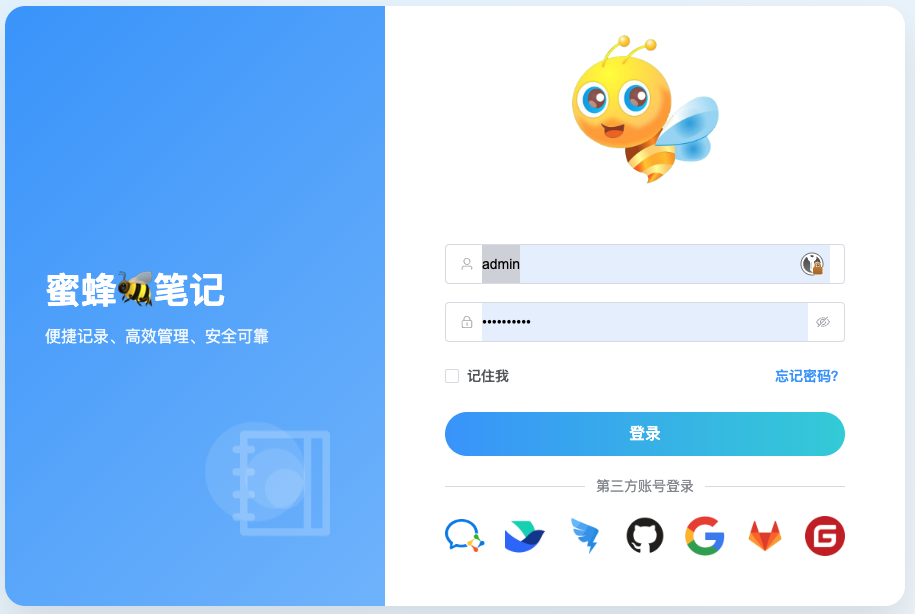
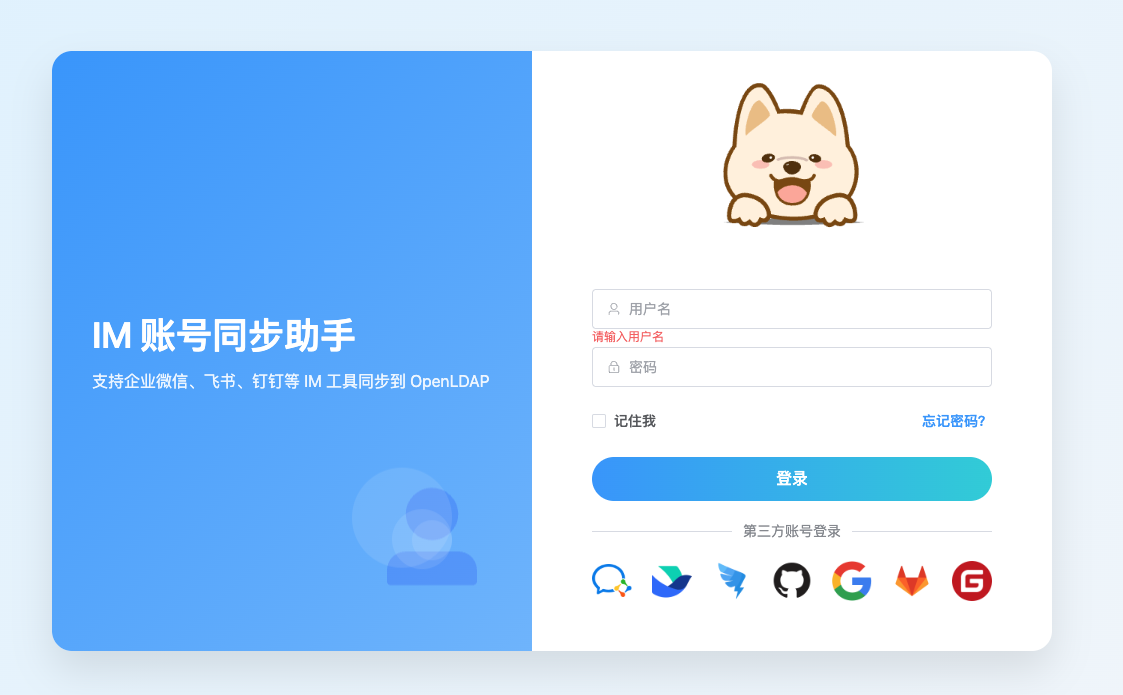
更新

diff --git a/README.md b/README.md
@@ -1,68 +1,23 @@
-# 蜜蜂🐝笔记 beenote
+# IM LDAP 账号同步助手 im2ldap
 
 ## 项目介绍
 
-1. 基于vue3 + django rest framework 的**markdown**笔记软件
-2. 由**cursor**协助开发
-3. 欢迎提意见和需求
+1. 基于vue3 + django rest framework
+2. 由**cursor、trae**协助开发
+3. 当前为测试版本，欢迎提意见和需求
 4. 近期将进行频繁更新，欢迎star、watch
 
 ## 功能定位
 
-1. **个人笔记** 和 **公司内部知识分享**
-2. 用户分为**普通用户**、**管理员用户**、**超级管理员**三种角色
-3. 用户角色可以创建**笔记和笔记分组**
-4. 管理员可以看到全部用户的笔记和笔记分组，并可以为其他用户分配**笔记和笔记分组**权限
-5. 超级管理员可以配置第三方登录
-6. 用户只可以看到管理员授权的**笔记和笔记分组**
+1. 将企业微信、飞书、钉钉等用户账号同步到LDAP
+2. 支持企业微信、飞书、钉钉、
 
 ## demo
 
-<https://beenote.huoxingxiaoliu.com/login?username=admin&password=mifengbiji>  
+<https://im2ldap.huoxingxiaoliu.com/login?username=admin&password=huoxingxiaoliu>  
 用户名：admin  
-密码：mifengbiji  
+密码：huoxingxiaoliu
 
-## Docker快速开始
-
-### 创建docker-compose.yaml文件  
-**生产建议打开数据库持久化**
-
-```yaml
-version: '3'
-
-services:
-  beenote:
-    image: xtlyk/beenote:latest
-    container_name: beenote
-    # pull_policy: never  # 不自动拉取镜像
-    ports:
-      - "80:80"      # 前端端口
-      - "8000:8000"  # 后端端口
-    environment:
-      - TZ=Asia/Shanghai
-      - DEBUG=0
-      - DJANGO_SETTINGS_MODULE=server.settings
-      - SECRET_KEY=G2afcZy1EZwKIqZ61uV3Nhp1RInSTKZYiVXm5IzF
-    # volumes:
-    #   - /data/:/app/data/  # 数据库文件持久化，如开启数据库为初始空状态，需手动创建superuser
-    restart: always
-    healthcheck:
-      test: ["CMD", "curl", "-f", "http://localhost:8000/api/auth/health/?format=json"]
-      interval: 30s
-      timeout: 10s
-      retries: 3
-      start_period: 40s
-```
-
-```shell
-# 创建数据库持久化目录
-# mkdir /data
-docker compose up
-```
-
-## 浏览器打开
-
-<http://localhost>
 
 ## 跟着火星小刘学运维开发
 
@@ -70,28 +25,26 @@ docker compose up
 
 ## qq群
 
-欢迎加入beenote-笔记与知识仓库。
-
 [![QQ群](https://pub.idqqimg.com/wpa/images/group.png)](https://qm.qq.com/cgi-bin/qm/qr?k=a_y5qjuIfBYZHkhGg4JTZqGjTk3KUI5T&jump_from=webapi&authKey=qJpb8UQWFJcxKBdT/zq9kGBqiMxOm9k3TkfYeAtaVtHAbKbIfxMiGBolmP+aWa5b)
 
-[![QQ群二维码](https://github.com/X-Mars/beenote/blob/master/images/qrcode.jpg?raw=true)](https://qm.qq.com/cgi-bin/qm/qr?k=a_y5qjuIfBYZHkhGg4JTZqGjTk3KUI5T&jump_from=webapi&authKey=qJpb8UQWFJcxKBdT/zq9kGBqiMxOm9k3TkfYeAtaVtHAbKbIfxMiGBolmP+aWa5b)
+[![QQ群二维码](https://github.com/X-Mars/im2ldap/blob/master/images/qrcode.jpg?raw=true)](https://qm.qq.com/cgi-bin/qm/qr?k=a_y5qjuIfBYZHkhGg4JTZqGjTk3KUI5T&jump_from=webapi&authKey=qJpb8UQWFJcxKBdT/zq9kGBqiMxOm9k3TkfYeAtaVtHAbKbIfxMiGBolmP+aWa5b)
 
 [![B站火星小刘](https://github.com/X-Mars/Zabbix-Alert-WeChat/blob/master/images/5.jpg?raw=true)](https://space.bilibili.com/439068477)
 
 ## 截图展示
 
-![登录页](https://raw.githubusercontent.com/X-Mars/beenote/refs/heads/master/images/1.png)
-![仪表盘](https://raw.githubusercontent.com/X-Mars/beenote/refs/heads/master/images/2.png)
-![笔记管理](https://raw.githubusercontent.com/X-Mars/beenote/refs/heads/master/images/3.png)
-![笔记授权](https://raw.githubusercontent.com/X-Mars/beenote/refs/heads/master/images/4.png)
-![三方登录](https://raw.githubusercontent.com/X-Mars/beenote/refs/heads/master/images/5.png)
+![登录页](https://raw.githubusercontent.com/X-Mars/im2ldap/refs/heads/master/images/1.png)
+![仪表盘](https://raw.githubusercontent.com/X-Mars/im2ldap/refs/heads/master/images/2.png)
+![笔记管理](https://raw.githubusercontent.com/X-Mars/im2ldap/refs/heads/master/images/3.png)
+![笔记授权](https://raw.githubusercontent.com/X-Mars/im2ldap/refs/heads/master/images/4.png)
+![三方登录](https://raw.githubusercontent.com/X-Mars/im2ldap/refs/heads/master/images/5.png)
 
 ## 开发环境
 
 ```shell
 python 3.12
 sqlite 3
-django 5.1.7
+django 5.2
 node v22.14.0
 ```
 
@@ -100,13 +53,13 @@ node v22.14.0
 1. 拉取代码
 
 ```shell
-git clone https://github.com/X-Mars/beenote.git
+git clone https://github.com/X-Mars/im2ldap.git
 ```
 
 2. 初始化后端
 
 ```shell
-cd beenote/server
+cd im2ldap/server
 pip3 install -r requirements.txt
 python3 manage.py makemigrations
 python3 manage.py migrate
@@ -122,7 +75,7 @@ python3 manage.py runserver
 
 ```conf
 location / {
-  root /beenote/web/dist;
+  root /im2ldap/web/dist;
   index  index.html index.htm;
 }
 
@@ -154,7 +107,7 @@ location /api {
 
 ```conf
 用户名：admin 
-密码： mifengbiji
+密码： huoxingxiaoliu
 ```
 
 ## License
